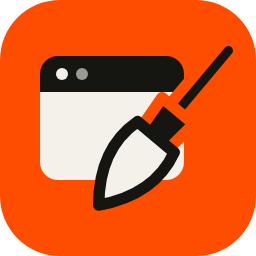
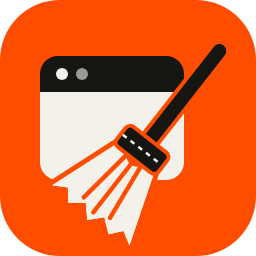
Escoba de verdad en el icono, modo claro/oscuro y permiso CSP para los iconos de Desinstalar
Claude-Session: https://claude.ai/code/session_01B2ahYvXMLU9L25Gt7hwNcE

Changed region(s): [[0.1875, 0.1562, 0.9062, 0.9688]]

diff --git a/ui/src/App.svelte b/ui/src/App.svelte
@@ -32,6 +32,29 @@
     restore: 'M4 12a8 8 0 1 0 3-6.2M4 4v5h5M12 8v4l3 2',
   };
 
+  // Tema: sigue al sistema hasta que la persona elige; después se recuerda su elección.
+  const systemDark = () => matchMedia('(prefers-color-scheme: dark)').matches;
+  let theme = $state((() => {
+    try {
+      const t = localStorage.getItem('wc-theme');
+      if (t === 'light' || t === 'dark') return t;
+    } catch {
+      /* sin almacenamiento: se sigue al sistema */
+    }
+    return systemDark() ? 'dark' : 'light';
+  })());
+  $effect(() => {
+    document.documentElement.dataset.theme = theme;
+  });
+  function toggleTheme() {
+    theme = theme === 'dark' ? 'light' : 'dark';
+    try {
+      localStorage.setItem('wc-theme', theme);
+    } catch {
+      /* no pasa nada: vale para esta sesión */
+    }
+  }
+
   let view = $state('clean');
   let q = $state({ path: '', batches: [] });
   let toast = $state(null);
@@ -63,17 +86,20 @@
   <aside>
     <div class="brand">
       <svg class="logo" viewBox="0 0 256 256" aria-hidden="true">
-        <rect width="256" height="256" rx="60" fill="#ff4d00" />
-        <path d="M40 92V74a18 18 0 0 1 18-18h108a18 18 0 0 1 18 18v18z" fill="#151512" />
-        <path d="M40 92h144v70a18 18 0 0 1-18 18H58a18 18 0 0 1-18-18z" fill="#f3f1ea" />
-        <circle cx="62" cy="74" r="6" fill="#f3f1ea" />
-        <circle cx="82" cy="74" r="6" fill="#f3f1ea" opacity=".6" />
-        <g transform="translate(150 144) scale(1.14) rotate(40) translate(-176 -150)">
-          <rect x="167" y="34" width="18" height="84" rx="9" fill="#151512" stroke="#ff4d00" stroke-width="10" />
-          <path d="M158 112h36l-3 34h-30z" fill="#151512" stroke="#ff4d00" stroke-width="10" stroke-linejoin="round" />
-          <path d="M155 142h42c6 22 4 48-21 78-25-30-27-56-21-78z" fill="#f3f1ea" stroke="#151512" stroke-width="10" stroke-linejoin="round" />
-        </g>
-      </svg>
+  <rect width="256" height="256" rx="60" fill="#ff4d00"/>
+  <path d="M40 92V74a18 18 0 0 1 18-18h108a18 18 0 0 1 18 18v18z" fill="#151512"/>
+  <path d="M40 92h144v70a18 18 0 0 1-18 18H58a18 18 0 0 1-18-18z" fill="#f3f1ea"/>
+  <circle cx="62" cy="74" r="6" fill="#f3f1ea"/>
+  <circle cx="82" cy="74" r="6" fill="#f3f1ea" opacity=".6"/>
+  <g transform="translate(156 132) rotate(38) scale(0.98)">
+    <path d="M-20 22L20 22L50 108L36 100L26 112L12 101L0 114L-12 101L-26 112L-36 100L-50 108Z" fill="#f3f1ea" stroke="#ff4d00" stroke-width="10" stroke-linejoin="round"/>
+    <path d="M-20 22L20 22L50 108L36 100L26 112L12 101L0 114L-12 101L-26 112L-36 100L-50 108Z" fill="#f3f1ea"/>
+    <path d="M-9 34L-17 98M0 34V104M9 34L17 98" stroke="#ff4d00" stroke-width="4.5" stroke-linecap="round"/>
+    <rect x="-7" y="-112" width="14" height="150" rx="7" fill="#151512" stroke="#ff4d00" stroke-width="8"/>
+    <rect x="-25" y="12" width="50" height="22" rx="4" fill="#151512" stroke="#ff4d00" stroke-width="8"/>
+    <path d="M-25 23H25" stroke="#f3f1ea" stroke-width="2.5" stroke-dasharray="5 5"/>
+  </g>
+</svg>
       <span>Win<b>Cleaner</b></span>
     </div>
 
@@ -86,6 +112,17 @@
         </button>
       {/each}
     </nav>
+
+    <button class="theme" onclick={toggleTheme} aria-label={theme === 'dark' ? 'Cambiar a modo claro' : 'Cambiar a modo oscuro'}>
+      <svg class="ico" viewBox="0 0 24 24" aria-hidden="true">
+        {#if theme === 'dark'}
+          <path d="M12 4V2M12 22v-2M4 12H2M22 12h-2M5.6 5.6 4.2 4.2M19.8 19.8l-1.4-1.4M5.6 18.4l-1.4 1.4M19.8 4.2l-1.4 1.4" /><circle cx="12" cy="12" r="4" />
+        {:else}
+          <path d="M20 14.5A8.5 8.5 0 0 1 9.5 4a8.5 8.5 0 1 0 10.5 10.5z" />
+        {/if}
+      </svg>
+      <span>{theme === 'dark' ? 'Modo claro' : 'Modo oscuro'}</span>
+    </button>
   </aside>
 
   <main>
@@ -136,6 +173,9 @@
   nav button.active .ico { color: var(--accent); }
   nav button.active::before { content: ''; position: absolute; left: -12px; top: 8px; bottom: 8px; width: 4px; border-radius: 0 3px 3px 0; background: var(--accent); }
   nav button .c { font-family: var(--mono); font-size: 11px; color: var(--on-accent); background: var(--accent); border-radius: 9px; padding: 0 6px; }
+  .theme { margin-top: auto; display: flex; align-items: center; gap: 12px; border: 1px solid rgb(255 255 255 / 0.14); background: none; border-radius: 8px; padding: 9px 12px; color: var(--side-dim); font-size: 13px; transition: color 0.12s, border-color 0.12s; }
+  .theme:hover { color: var(--side-ink); border-color: rgb(255 255 255 / 0.3); }
+  .theme .ico { width: 17px; height: 17px; fill: none; stroke: currentColor; stroke-width: 1.7; stroke-linecap: round; stroke-linejoin: round; }
   main { overflow-y: auto; }
   .page { max-width: 780px; padding: 32px 40px 70px; animation: fade 0.18s; }
   .page.wide { max-width: 1060px; }

diff --git a/ui/src/app.css b/ui/src/app.css
@@ -20,7 +20,7 @@
   font-family: var(--font);
 }
 @media (prefers-color-scheme: dark) {
-  :root {
+  :root:not([data-theme="light"]) {
     color-scheme: dark;
     --paper: #121210;
     --paper-2: #1b1b18;
@@ -30,6 +30,16 @@
     --rule: #2c2b26;
     --accent: #ff6a2b;
   }
+}
+:root[data-theme="dark"] {
+    color-scheme: dark;
+    --paper: #121210;
+    --paper-2: #1b1b18;
+    --ink: #eeebe0;
+    --ink-2: #aaa79a;
+    --ink-3: #706e63;
+    --rule: #2c2b26;
+    --accent: #ff6a2b;
 }
 * { box-sizing: border-box; }
 html, body { height: 100%; }
